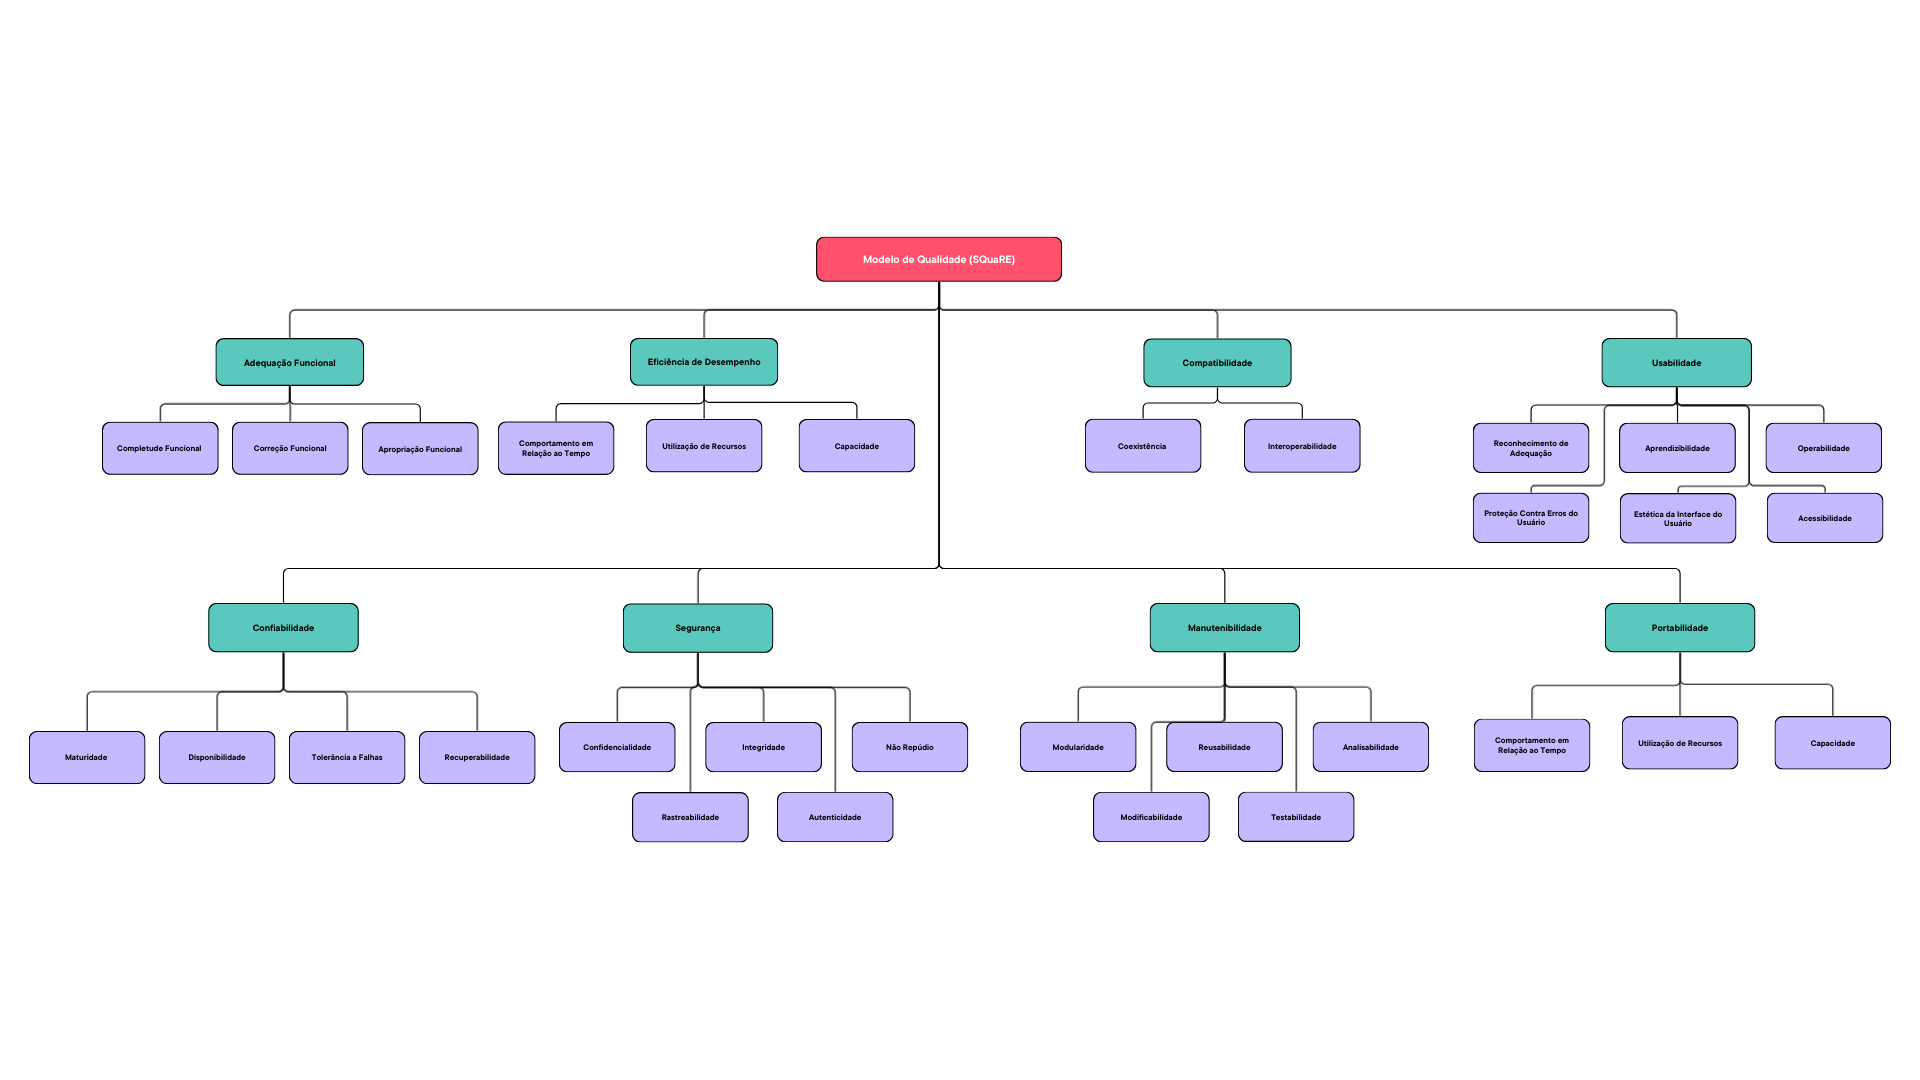
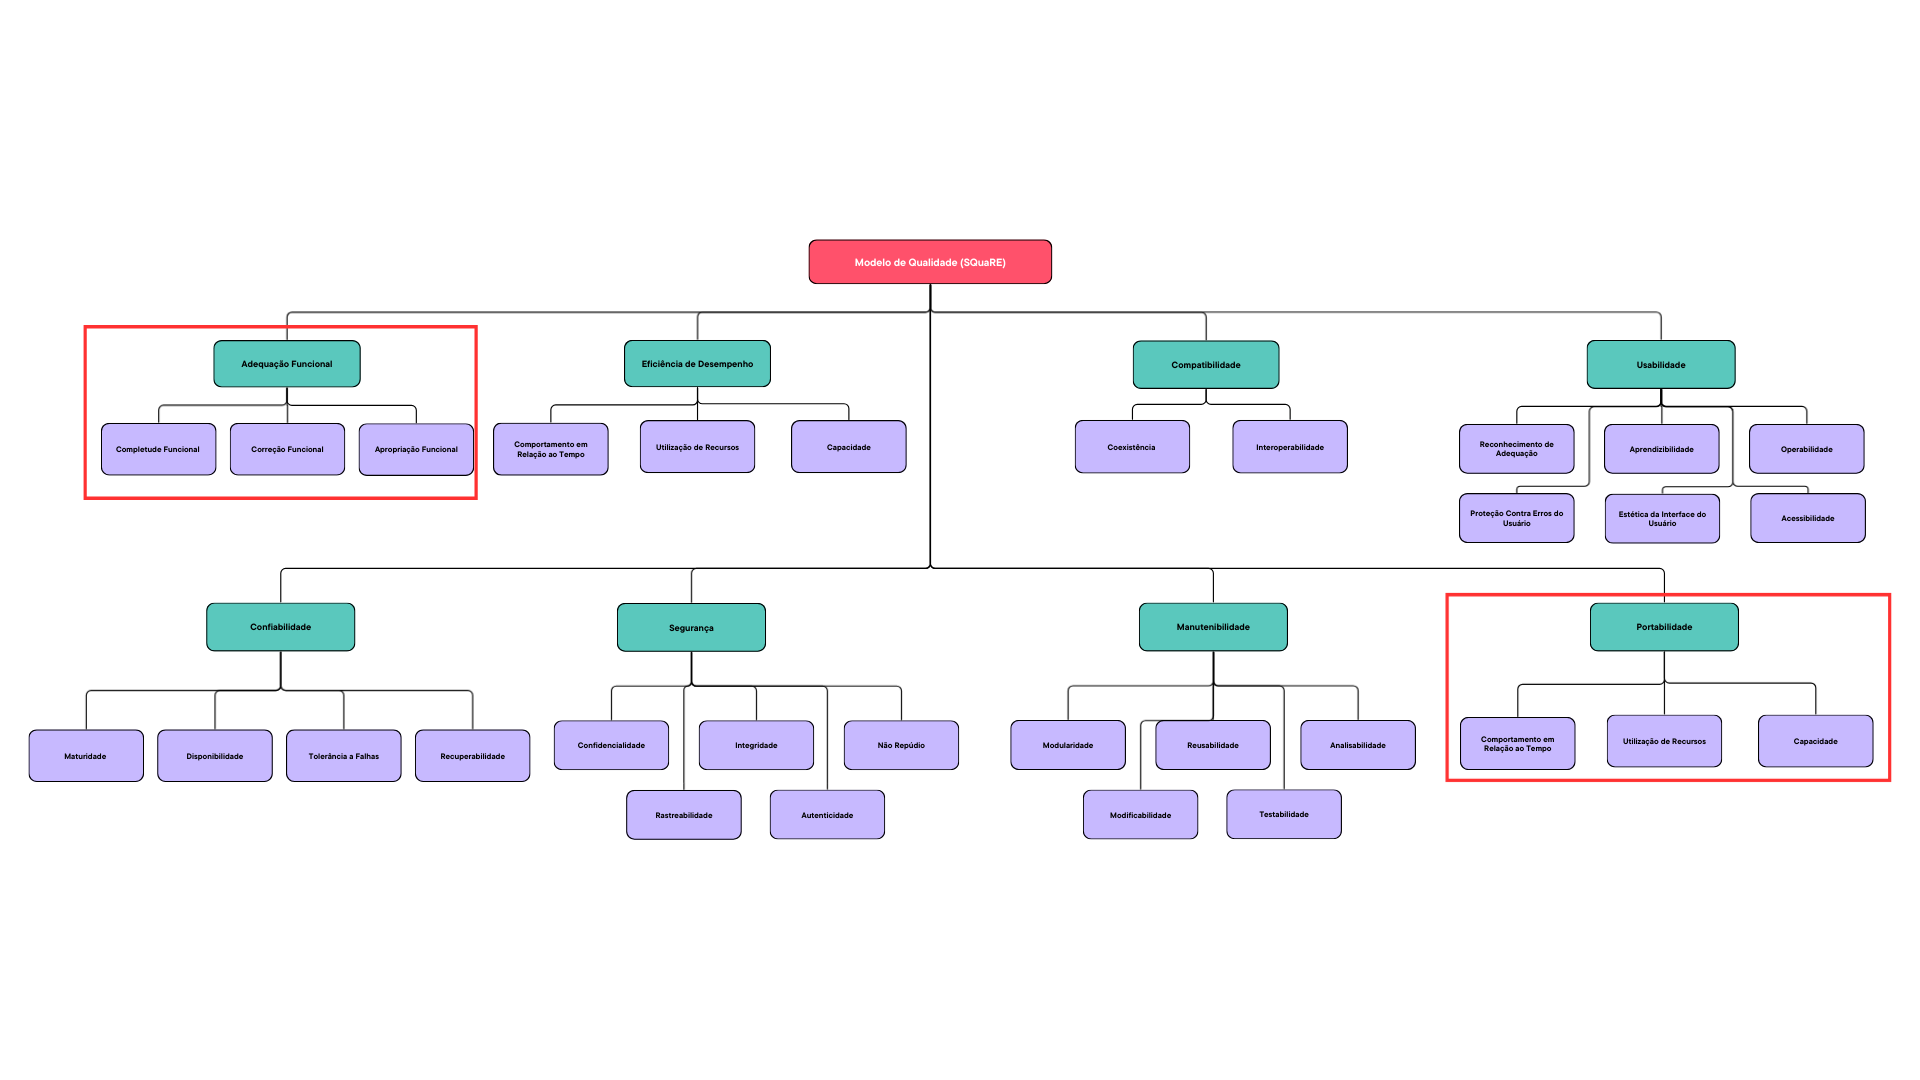
docs: adicionando referências e mudando o modelo de imagem do square

diff --git a/docs/fase1/04_modelo_qualidade.md b/docs/fase1/04_modelo_qualidade.md
@@ -17,9 +17,9 @@ O objetivo deste artefato é formalizar um framework de qualidade claro e objeti
 
 ## 4.3 Modelo de Qualidade (SQuaRE)
 
-O modelo SQuaRE, especificado na norma ISO/IEC 25010 ¹, define oito características que descrevem a qualidade de um produto de software. Essas características são detalhadas na tabela abaixo:
+O modelo SQuaRE, especificado na norma ISO/IEC 25010 [^1], define oito características que descrevem a qualidade de um produto de software. Essas características são detalhadas na tabela abaixo:
 
-| Característica               | Descrição (resumida da ISO/IEC 25010)                                                                                                                                         |
+| Característica               | Descrição (resumida da ISO/IEC 25010 [^1])                                                                                                                                         |
 | :--------------------------- | :---------------------------------------------------------------------------------------------------------------------------------------------------------------------------- |
 | **Adequação Funcional**      | Grau em que o produto fornece funções que atendem às necessidades declaradas e implícitas quando usado sob condições especificadas.                                           |
 | **Eficiência de Desempenho** | Desempenho relativo à quantidade de recursos usados sob condições estabelecidas.                                                                                              |
@@ -37,11 +37,12 @@ Para a fase atual do projeto, foram selecionadas as seguintes características d
 1.  **Adequação Funcional**
 2.  **Portabilidade**
 
-O motivo da seleção destas duas características está melhor detalhada na seção [5. Seleção e Priorização de Características](./05_selecao.md)d
+O motivo da seleção destas duas características está melhor detalhada na seção [5. Seleção e Priorização de Características](./05_selecao.md)
 
 ### Subcaracterísticas do SQuaRE
 
 Para permitir uma análise mais granular, cada característica de qualidade do modelo é decomposta em um conjunto de sub-características, conforme definido pela norma ISO/IEC 25010.  O diagrama abaixo ilustra essa estrutura hierárquica, destacando os itens priorizados para este projeto.
+
 
 
 **Figura 1 - Subcaracterísticas do SQuaRE**
@@ -51,10 +52,13 @@ Para permitir uma análise mais granular, cada característica de qualidade do m
 *Fonte: [Pedro Lucas Dourado](https://github.com/pedrolucasdourado)*
 
 
-
 ## 4.6 Histórico de Versão
 
 
 | Versão | Data       | Descrição                              | Autor                                                       | Revisor |
 | :----: | ---------- | -------------------------------------- | ----------------------------------------------------------- | ------- |
 | `1.0`  | 28/09/2025 | Criação da estrutura inicial da página | [Pedro Lucas Dourado](https://github.com/pedrolucasdourado) |         |
+
+## 4.7 Referências
+
+[^1]: INTERNATIONAL ORGANIZATION FOR STANDARDIZATION. ISO/IEC 25010:2011. *Systems and software engineering — Systems and software Quality Requirements and Evaluation (SQuaRE) — System and software quality models*. Genebra: ISO, 2011.
